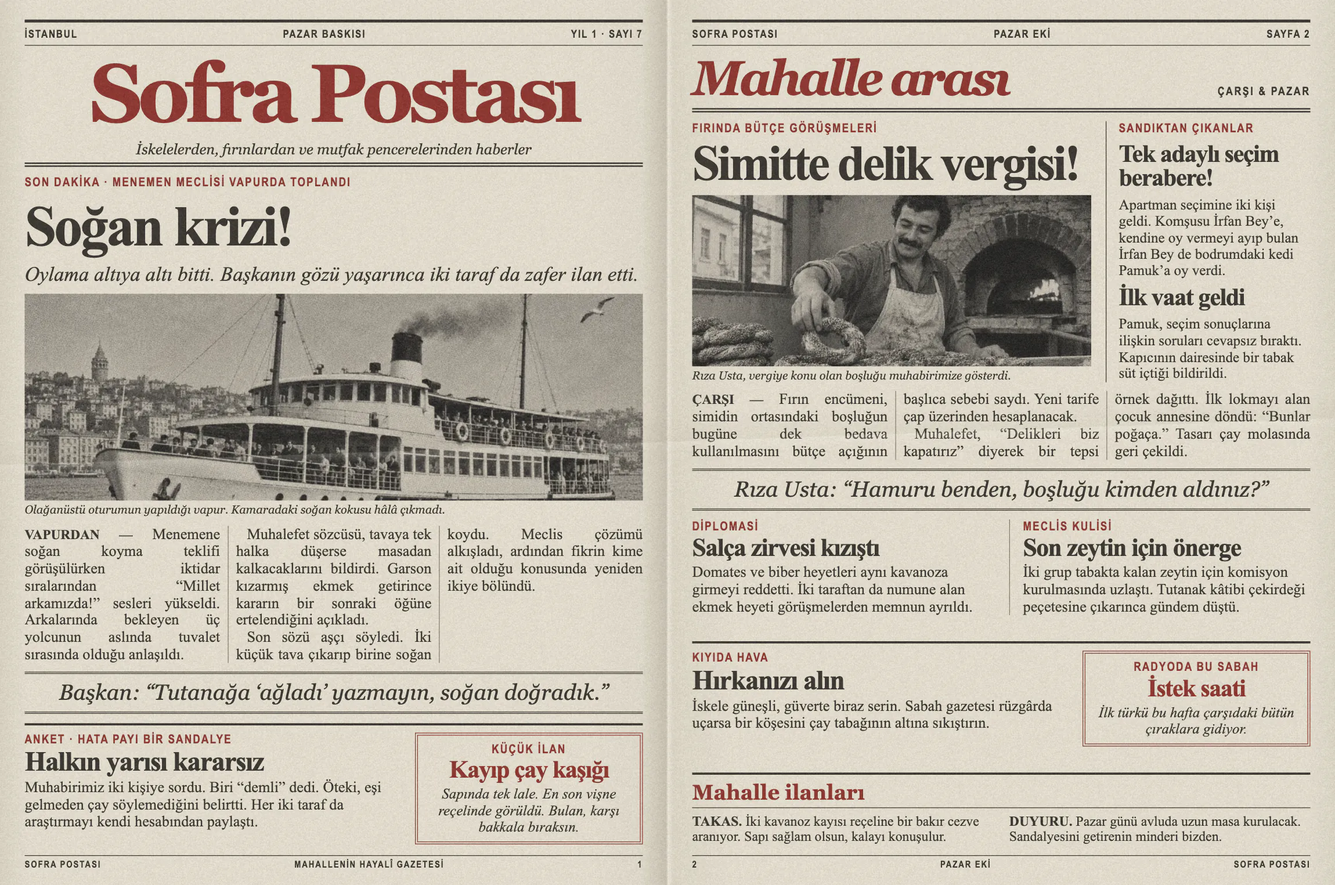
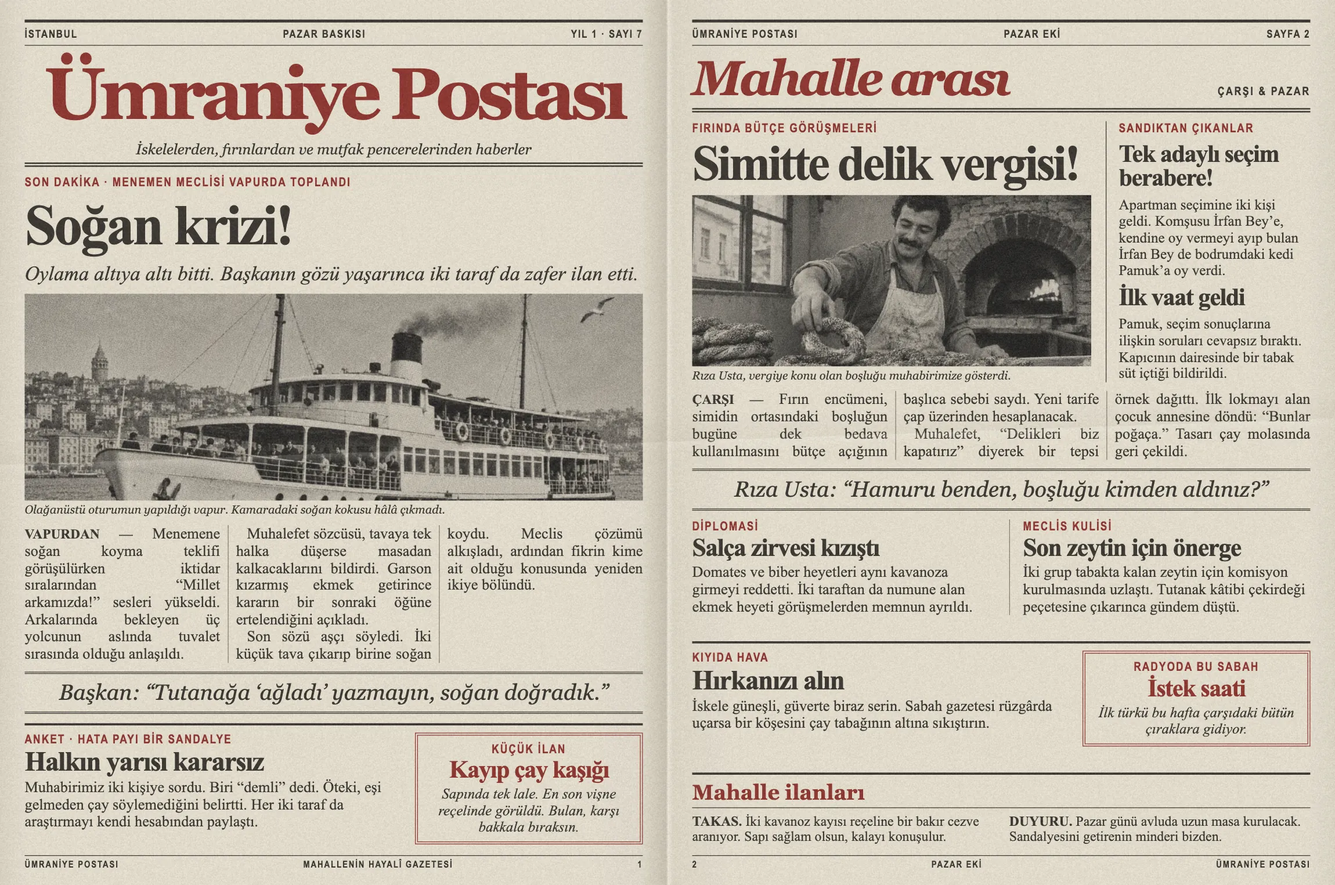
Rename the breakfast newspaper to Ümraniye Postası

diff --git a/artwork/sofra-postasi.html b/artwork/sofra-postasi.html
@@ -1,7 +1,7 @@
 <!doctype html>
 <html lang="tr">
 <meta charset="utf-8">
-<title>Sofra Postası · Pazar baskısı</title>
+<title>Ümraniye Postası · Pazar baskısı</title>
 <style>
   * { box-sizing: border-box; }
   :root { --ink: #37342e; --red: #8e332c; }
@@ -17,7 +17,7 @@
   .strip, footer { display: flex; justify-content: space-between; align-items: center; gap: 12px;
     font: bold 15px/1.1 "Arial Narrow", Arial, sans-serif; letter-spacing: 1.5px; text-transform: uppercase; }
   .strip { border-top: 4px solid var(--ink); border-bottom: 1px solid var(--ink); padding: 8px 0 6px; }
-  h1 { font: bold 113px/.96 Georgia, "Times New Roman", serif; letter-spacing: -7px; text-align: center; color: var(--red); }
+  h1 { font: bold 100px/108px Georgia, "Times New Roman", serif; letter-spacing: -7px; text-align: center; color: var(--red); }
   .imprint { border-bottom: 6px double var(--ink); padding-bottom: 7px; font: italic 20px Georgia, serif; text-align: center; }
   .label { font: bold 17px/1.1 "Arial Narrow", Arial, sans-serif; letter-spacing: 1.6px; text-transform: uppercase; color: var(--red); }
   h2 { font: bold 79px/.99 "Times New Roman", serif; letter-spacing: -3.5px; }
@@ -54,7 +54,7 @@
 <body>
   <article class="paper">
     <header class="strip"><span>İstanbul</span><span>Pazar baskısı</span><span>Yıl 1 · Sayı 7</span></header>
-    <h1>Sofra Postası</h1>
+    <h1>Ümraniye Postası</h1>
     <p class="imprint">İskelelerden, fırınlardan ve mutfak pencerelerinden haberler</p>
     <div class="label">Son dakika · Menemen Meclisi vapurda toplandı</div>
     <h2>Soğan krizi!</h2>
@@ -71,10 +71,10 @@
         <p>Muhabirimiz iki kişiye sordu. Biri “demli” dedi. Öteki, eşi gelmeden çay söylemediğini belirtti. Her iki taraf da araştırmayı kendi hesabından paylaştı.</p></section>
       <aside class="notice"><div class="label">Küçük ilan</div><h3>Kayıp çay kaşığı</h3><p>Sapında tek lale. En son vişne reçelinde görüldü. Bulan, karşı bakkala bıraksın.</p></aside>
     </div>
-    <footer><span>Sofra Postası</span><span>Mahallenin hayalî gazetesi</span><span>1</span></footer>
+    <footer><span>Ümraniye Postası</span><span>Mahallenin hayalî gazetesi</span><span>1</span></footer>
   </article>
   <article class="paper">
-    <header class="strip"><span>Sofra Postası</span><span>Pazar eki</span><span>Sayfa 2</span></header>
+    <header class="strip"><span>Ümraniye Postası</span><span>Pazar eki</span><span>Sayfa 2</span></header>
     <div class="section"><strong>Mahalle arası</strong><span>ÇARŞI &amp; PAZAR</span></div>
     <div class="feature">
       <section><div class="label">Fırında bütçe görüşmeleri</div><h2>Simitte delik vergisi!</h2>
@@ -100,7 +100,7 @@
       <p><b>TAKAS.</b> İki kavanoz kayısı reçeline bir bakır cezve aranıyor. Sapı sağlam olsun, kalayı konuşulur.</p>
       <p><b>DUYURU.</b> Pazar günü avluda uzun masa kurulacak. Sandalyesini getirenin minderi bizden.</p>
     </div></div>
-    <footer><span>2</span><span>Pazar eki</span><span>Sofra Postası</span></footer>
+    <footer><span>2</span><span>Pazar eki</span><span>Ümraniye Postası</span></footer>
   </article>
 <script>
   // A repeatable grain tile keeps the master and its baked game print in register.

diff --git a/progress.md b/progress.md
@@ -106,7 +106,7 @@ Added Aynala for whole sivri biber and pepper rings. Dilimle offers thin, medium
 
 Desktop and touch playthroughs checked the reflected pepper silhouette, all eight thin rings, movement and undo, two olive colors, sliced toppings, 960px photos, album remix and radio bookmarks.
 
-Gazete lays a single open issue of Sofra Postası beneath the plate, with red gingham showing at its edges. The original Turkish satire and generated press photos are typeset in artwork/sofra-postasi.html. To update the print, capture that page at 1840 × 1220 CSS pixels with device scale 1.25 and export the result to assets/gazete-kagidi.webp.
+Gazete lays a single open issue of Ümraniye Postası beneath the plate, with red gingham showing at its edges. The original Turkish satire and generated press photos are typeset in artwork/sofra-postasi.html. To update the print, capture that page at 1840 × 1220 CSS pixels with device scale 1.25 and export the result to assets/gazete-kagidi.webp.
 
 Domates salçası and biber salçası sit beside the other breakfast spreads. Each has its own bowl, knife mark and matching height field. A tap deposits paste and dragging the knife follows the gesture, including across coated toppings. The table surface and both pastes use the existing undo, save, sharing and photo paths.
 
